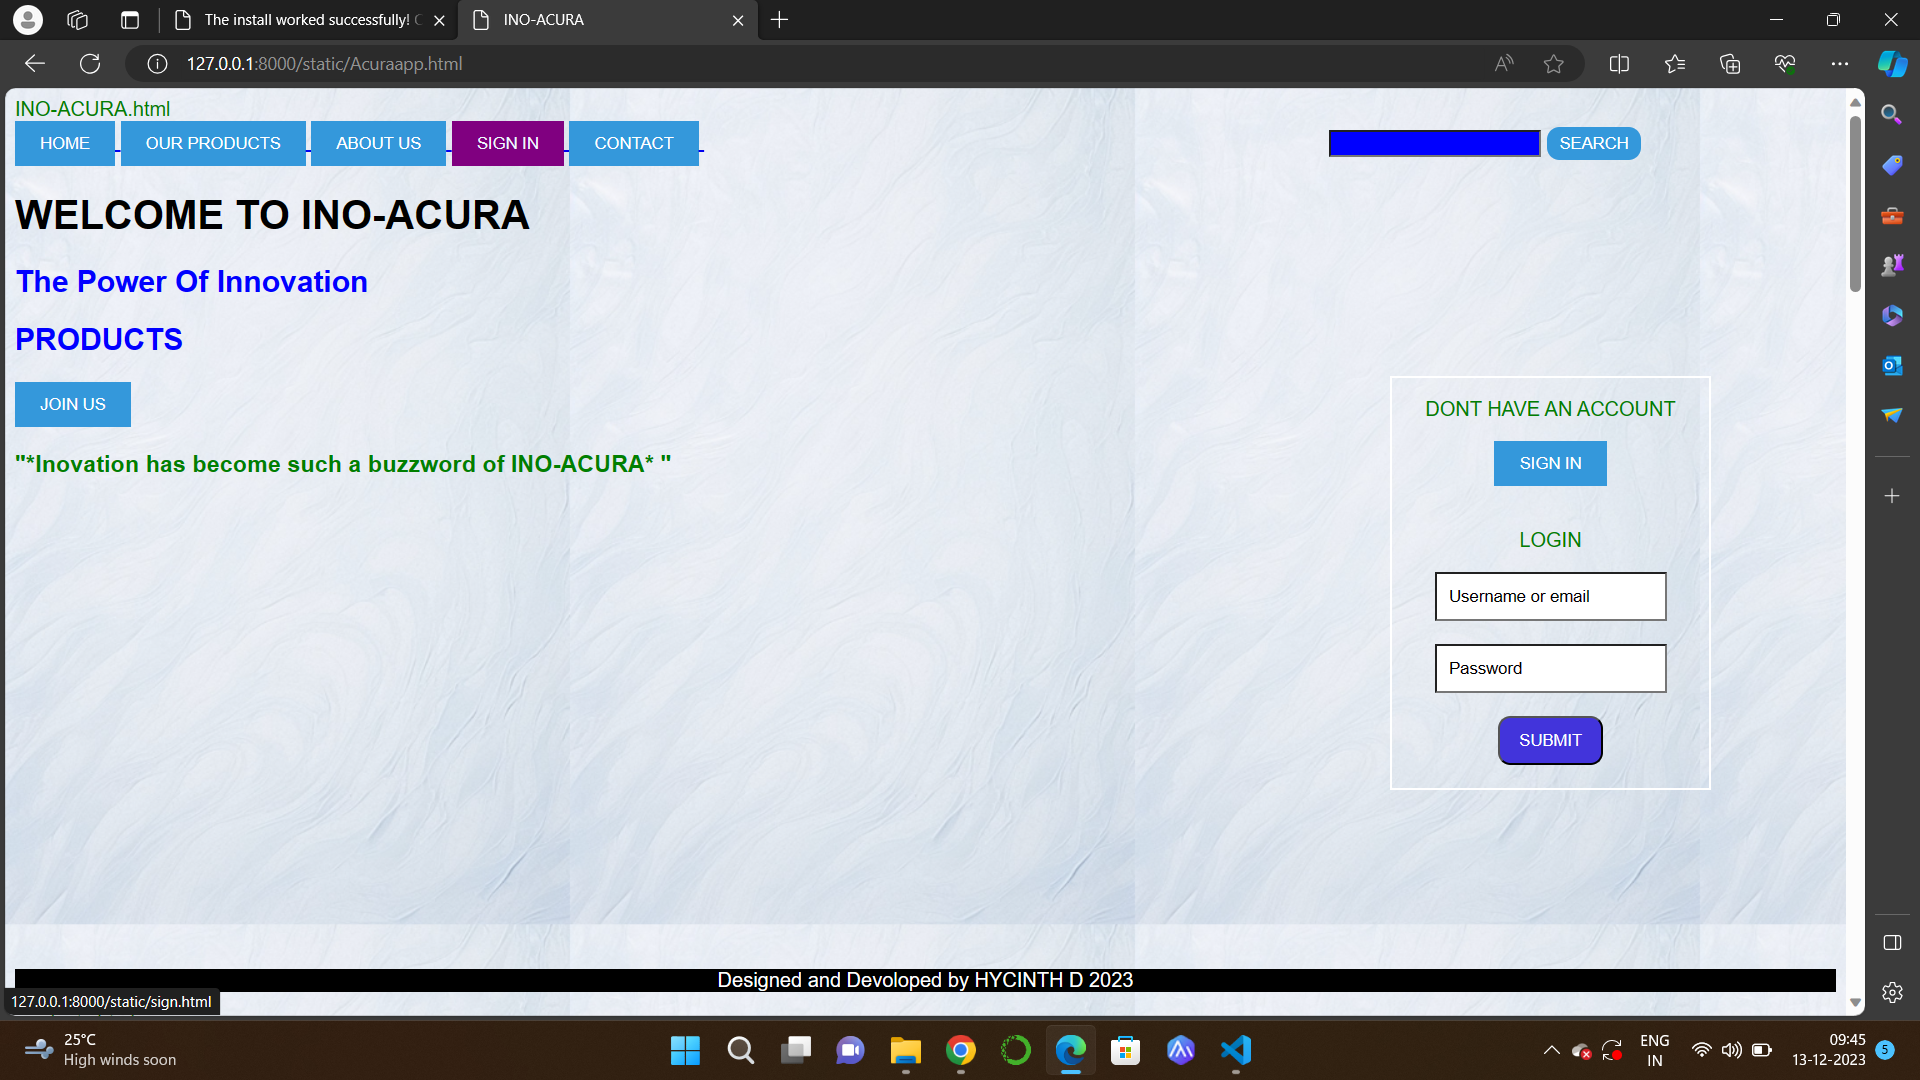
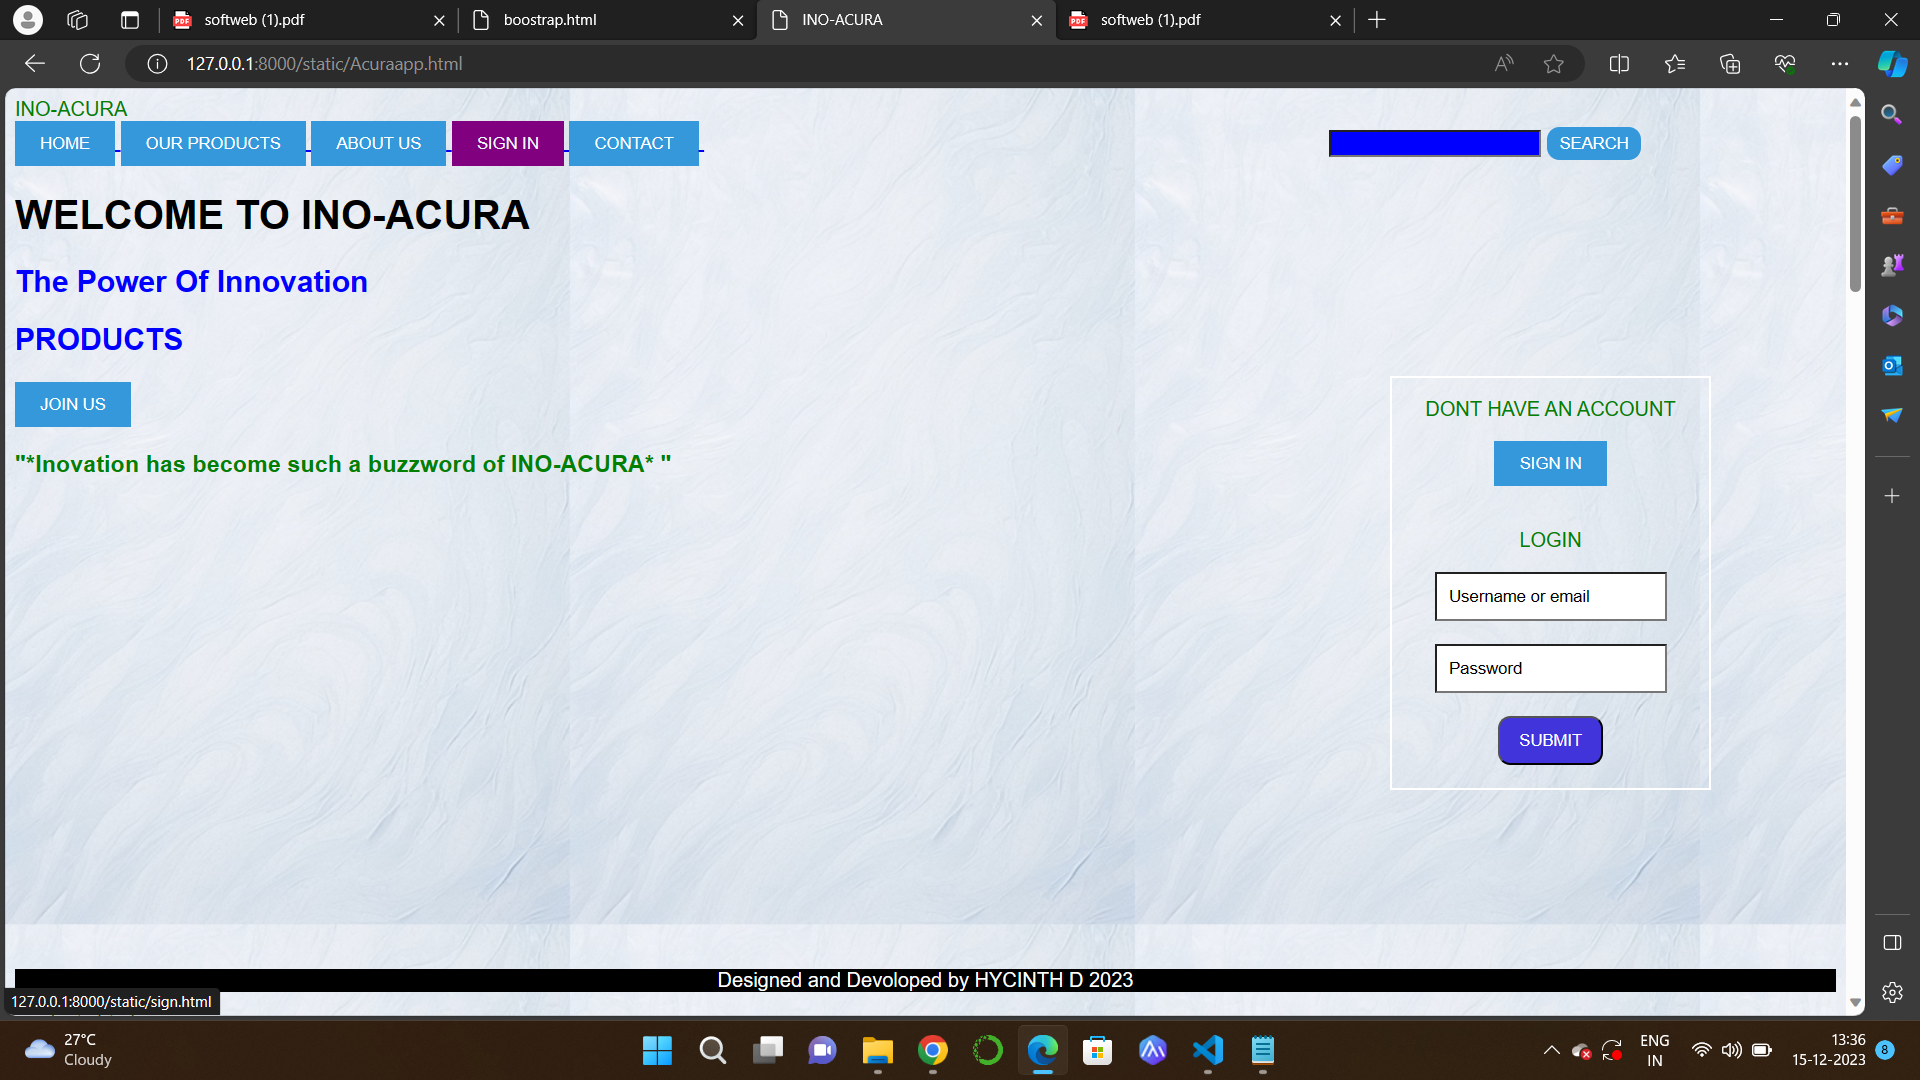
Success

diff --git a/Hycinth/Acuraapp/static/Acuraapp.html b/Hycinth/Acuraapp/static/Acuraapp.html
@@ -1,4 +1,4 @@
-INO-ACURA.html
+INO-ACURA
 <html>
 <title>INO-ACURA</title>
 <style>
@@ -119,20 +119,20 @@ INO-ACURA.html
 <body >
     <form class="styled ">
         <div class=>
-            <a href="mainpage.html">
+            <a href="mainpage">
                 <input type="button" value="HOME">
             </a>
-            <a href="products.html">
+            <a href="products">
                 <input type="button" value="OUR PRODUCTS">
             </a>
 
-            <a href="about.html">
+            <a href="about">
                 <input type="button" value="ABOUT US">
             </a>
-            <a href="sign.html">
+            <a href="sign">
                 <input type="button" value="SIGN IN">
             </a>
-            <a href="contact.html">
+            <a href="contact">
                 <input type="button" value="CONTACT">
             </a>  
             <input type="text">
@@ -143,7 +143,7 @@ INO-ACURA.html
     <h1>WELCOME TO INO-ACURA</h1>
     <h2>The Power Of Innovation</h2>
     <h2>PRODUCTS</h2>
-    <a href="sign.html">
+    <a href="sign">
         <input type="button" value="JOIN US" class="join">
     </a>  
     
@@ -153,13 +153,13 @@ INO-ACURA.html
         <div class="login">
             <div class="login-box">
             <p style="color: green;">DONT HAVE AN ACCOUNT</p>
-            <a href="sign.html">
+            <a href="sign">
                 <input type="button" value="SIGN IN"><br><br>
             </a>  
             <p style="color: green;">LOGIN</p>
             <input type="text" value="Username or email" ><br><br>
             <input type="text" value="Password"><br><br>
-            <a href="products.html">
+            <a href="products">
                 <input type="submit" value="SUBMIT"><br><br>
             </a>  
         </div>
@@ -172,7 +172,7 @@ INO-ACURA.html
 </footer>
 </html>
 
-products.html
+products
 <html>
     <title>our products</title>
     <style>  
@@ -225,19 +225,19 @@ products.html
     <body>
         <form class="styled ">
             <div class=>
-                <a href="mainpage.html">
+                <a href="mainpage">
                     <input type="button" value="HOME">
                 </a>
-                <a href="products.html">
+                <a href="products">
                     <input type="button" value="OUR PRODUCTS">
                 </a>
-                <a href="about.html">
+                <a href="about">
                     <input type="button" value="ABOUT US">
                 </a>
-                <a href="sign.html">
+                <a href="sign">
                     <input type="button" value="SIGN IN">
                 </a>
-                <a href="contact.html">
+                <a href="contact">
                     <input type="button" value="CONTACT">
                 </a>  
                 <input type="text">
@@ -255,7 +255,7 @@ products.html
     </footer>
 </html>
 
-about.html
+about
 <html>
 <title>about us</title>
 <style>
@@ -325,19 +325,19 @@ about.html
 <body>
     <form class="styled ">
         <div class=>
-            <a href="mainpage.html">
+            <a href="mainpage">
                 <input type="button" value="HOME">
             </a>
-            <a href="products.html">
+            <a href="products">
                 <input type="button" value="OUR PRODUCTS">
             </a>
-            <a href="about.html">
+            <a href="about">
                 <input type="button" value="ABOUT US">
             </a>
-            <a href="sign.html">
+            <a href="sign">
                 <input type="button" value="SIGN IN">
             </a>
-            <a href="contact.html">
+            <a href="contact">
                 <input type="button" value="CONTACT">
             </a>  
             <input type="text">
@@ -378,7 +378,7 @@ about.html
 </footer>
 </html>
 
-sign.html
+sign
 <!DOCTYPE html>
 <html>
 <head>
@@ -473,19 +473,19 @@ sign.html
 <body>
     <form class="styled ">
         <div class=>
-            <a href="mainpage.html">
+            <a href="mainpage">
                 <input type="button" value="HOME">
             </a>
-            <a href="products.html">
+            <a href="products">
                 <input type="button" value="OUR PRODUCTS">
             </a>
-            <a href="about.html">
+            <a href="about">
                 <input type="button" value="ABOUT US">
             </a>
-            <a href="sign.html">
+            <a href="sign">
                 <input type="button" value="SIGN IN">
             </a>
-            <a href="contact.html">
+            <a href="contact">
                 <input type="button" value="CONTACT">
             </a>  
             <input type="text">
@@ -530,7 +530,7 @@ sign.html
 </footer>
 </html>
 
-contact.html
+contact
 <!DOCTYPE html>
 <html>
 <head>
@@ -644,19 +644,19 @@ border:2px solid white;
 <body>
     <form class="styled">
         <div>
-            <a href="mainpage.html">
+            <a href="mainpage">
                 <input type="button" value="HOME">
             </a>
-            <a href="products.html">
+            <a href="products">
                 <input type="button" value="OUR PRODUCTS">
             </a>
-            <a href="about.html">
+            <a href="about">
                 <input type="button" value="ABOUT US">
             </a>
-            <a href="sign.html">
+            <a href="sign">
                 <input type="button" value="SIGN IN">
             </a>
-            <a href="contact.html">
+            <a href="contact">
                 <input type="button" value="CONTACT">
             </a>
             <input type="text" >
